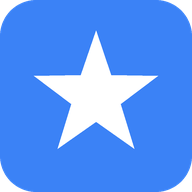
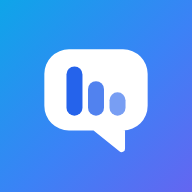
feat(brand): replace the generic star with a real platform mark
The identity was a stock star in a blue square — the same star every rating
site uses — and the Blade logo components still shipped the Laravel starter
kit mark under the name "Laravel Starter Kit".

Build a real mark on the social card's idea: say what the product does using
its own UI. The glyph is a review bubble with the tail on the bottom right
(RTL) holding three score bars that rise with the reading direction — reviews
resolving into a score, which is the whole product in one shape.

Explored five directions at real pixel sizes before landing here. Discarded:
metric bars alone and a nested card both read as text-align/document icons; a
fanned card stack collapsed into a credit card; a partially filled star lost
its fill below 32px; and both ت monogram variants read unmistakably as a
smiley face.

scripts/brand-icons.mjs is now the single source for every icon artifact and
renders them from one geometry definition:
- favicon.svg + favicon.ico (16/32/48, PNG-payload ICO assembled in-script)
  on a rounded tile.
- apple-touch-icon.png, icon-192.png, icon-512.png on a square full-bleed
  tile with the glyph inset to 0.82, so the manifest's "any maskable" purpose
  survives a circular crop.

The inline component carries the same geometry for CSS control, and the
public header now uses it instead of a hand-rolled star. Verified legible at
16px, on dark, under a circular mask, and in the running header.
[…]

diff --git a/resources/views/components/app-logo-icon.blade.php b/resources/views/components/app-logo-icon.blade.php
@@ -1,8 +1,22 @@
-<svg xmlns="http://www.w3.org/2000/svg" viewBox="0 0 40 42" {{ $attributes }}>
-    <path 
-        fill="currentColor" 
-        fill-rule="evenodd" 
-        clip-rule="evenodd"
-        d="M17.2 5.633 8.6.855 0 5.633v26.51l16.2 9 16.2-9v-8.442l7.6-4.223V9.856l-8.6-4.777-8.6 4.777V18.3l-5.6 3.111V5.633ZM38 18.301l-5.6 3.11v-6.157l5.6-3.11V18.3Zm-1.06-7.856-5.54 3.078-5.54-3.079 5.54-3.078 5.54 3.079ZM24.8 18.3v-6.157l5.6 3.111v6.158L24.8 18.3Zm-1 1.732 5.54 3.078-13.14 7.302-5.54-3.078 13.14-7.3v-.002Zm-16.2 7.89 7.6 4.222V38.3L2 30.966V7.92l5.6 3.111v16.892ZM8.6 9.3 3.06 6.222 8.6 3.143l5.54 3.08L8.6 9.3Zm21.8 15.51-13.2 7.334V38.3l13.2-7.334v-6.156ZM9.6 11.034l5.6-3.11v14.6l-5.6 3.11v-14.6Z"
-    />
+{{--
+    The platform mark: a review bubble (RTL, tail on the bottom right) holding
+    three score bars that rise with the reading direction.
+
+    Kept in sync with public/favicon.svg, which scripts/brand-icons.mjs renders
+    from the same geometry. Change the mark there, not here, then rerun the
+    script — tests/Feature/BrandAssetsTest.php asserts the two agree.
+--}}
+<svg xmlns="http://www.w3.org/2000/svg" viewBox="0 0 64 64" role="img" aria-label="تقييم التدريب" {{ $attributes }}>
+    <defs>
+        <linearGradient id="brand-mark-gradient" x1="0" y1="0" x2="1" y2="1">
+            <stop offset="0" stop-color="#0EA5E9"/>
+            <stop offset="0.55" stop-color="#3B82F6"/>
+            <stop offset="1" stop-color="#6366F1"/>
+        </linearGradient>
+    </defs>
+    <rect width="64" height="64" rx="16" fill="url(#brand-mark-gradient)"/>
+    <path transform="translate(64 0) scale(-1 1)" fill="#FFFFFF" d="M21 13h22a10 10 0 0 1 10 10v13a10 10 0 0 1-10 10H33l-10.5 8.5a1.4 1.4 0 0 1-2.3-1.1V46H21a10 10 0 0 1-10-10V23a10 10 0 0 1 10-10Z"/>
+    <rect x="20" y="20" width="6.5" height="20" rx="3.25" fill="#2563EB"/>
+    <rect x="28.75" y="26" width="6.5" height="14" rx="3.25" fill="#2563EB" opacity="0.8"/>
+    <rect x="37.5" y="30.5" width="6.5" height="9.5" rx="3.25" fill="#2563EB" opacity="0.62"/>
 </svg>

diff --git a/tests/Feature/BrandAssetsTest.php b/tests/Feature/BrandAssetsTest.php
@@ -1,0 +1,60 @@
+<?php
+
+/**
+ * The brand mark lives in two places by necessity: public/favicon.svg (and the
+ * rasters beside it) for browsers and app stores, and the Blade component for
+ * inline use. scripts/brand-icons.mjs renders the first set; these tests keep
+ * the second from drifting away from it.
+ */
+function markElements(string $svg): array
+{
+    preg_match_all('/<(?:path|rect x)\b[^>]*>/', $svg, $matches);
+
+    return $matches[0];
+}
+
+it('ships every icon artifact at the size its consumer expects', function (string $file, int $size): void {
+    $path = public_path($file);
+
+    expect($path)->toBeReadableFile();
+
+    [$width, $height] = getimagesize($path);
+
+    expect($width)->toBe($size)->and($height)->toBe($size);
+})->with([
+    ['apple-touch-icon.png', 180],
+    ['icon-192.png', 192],
+    ['icon-512.png', 512],
+]);
+
+it('ships a multi-size favicon', function (): void {
+    $path = public_path('favicon.ico');
+
+    expect($path)->toBeReadableFile();
+
+    $header = unpack('vreserved/vtype/vcount', file_get_contents($path, length: 6));
+
+    expect($header['reserved'])->toBe(0)
+        ->and($header['type'])->toBe(1)
+        ->and($header['count'])->toBe(3);
+});
+
+it('keeps the inline mark identical to the favicon', function (): void {
+    $favicon = file_get_contents(public_path('favicon.svg'));
+    $component = file_get_contents(resource_path('views/components/app-logo-icon.blade.php'));
+
+    $elements = markElements($favicon);
+
+    expect($elements)->toHaveCount(4);
+
+    foreach ($elements as $element) {
+        expect($component)->toContain($element);
+    }
+});
+
+it('renders the mark in the public header', function (): void {
+    $this->withoutVite()
+        ->get(route('companies.index'))
+        ->assertOk()
+        ->assertSee('brand-mark-gradient', false);
+});

diff --git a/resources/views/layouts/public.blade.php b/resources/views/layouts/public.blade.php
@@ -8,9 +8,7 @@
             <div class="max-w-5xl mx-auto px-4 sm:px-6">
                 <div class="flex items-center justify-between h-16">
                     <a href="{{ route('home') }}" wire:navigate class="flex items-center gap-2 text-lg font-bold text-slate-900 transition-opacity hover:opacity-80">
-                        <span class="flex size-8 items-center justify-center rounded-lg bg-blue-500 text-white">
-                            <svg class="size-4" fill="none" viewBox="0 0 24 24" stroke="currentColor" stroke-width="2.5" aria-hidden="true"><path stroke-linecap="round" stroke-linejoin="round" d="M11.049 2.927c.3-.921 1.603-.921 1.902 0l1.519 4.674a1 1 0 00.95.69h4.915c.969 0 1.371 1.24.588 1.81l-3.976 2.888a1 1 0 00-.363 1.118l1.518 4.674c.3.922-.755 1.688-1.538 1.118l-3.976-2.888a1 1 0 00-1.176 0l-3.976 2.888c-.783.57-1.838-.196-1.538-1.118l1.518-4.674a1 1 0 00-.363-1.118l-3.976-2.888c-.784-.57-.38-1.81.588-1.81h4.914a1 1 0 00.951-.69l1.519-4.674z"/></svg>
-                        </span>
+                        <x-app-logo-icon class="size-8 rounded-lg" />
                         تقييم التدريب
                     </a>
                     <div class="flex items-center gap-2 sm:gap-3">

diff --git a/resources/views/components/app-logo.blade.php b/resources/views/components/app-logo.blade.php
@@ -3,15 +3,15 @@
 ])
 
 @if($sidebar)
-    <flux:sidebar.brand name="Laravel Starter Kit" {{ $attributes }}>
-        <x-slot name="logo" class="flex aspect-square size-8 items-center justify-center rounded-md bg-accent-content text-accent-foreground">
-            <x-app-logo-icon class="size-5 fill-current text-white dark:text-black" />
+    <flux:sidebar.brand name="تقييم التدريب" {{ $attributes }}>
+        <x-slot name="logo">
+            <x-app-logo-icon class="size-8 rounded-lg" />
         </x-slot>
     </flux:sidebar.brand>
 @else
-    <flux:brand name="Laravel Starter Kit" {{ $attributes }}>
-        <x-slot name="logo" class="flex aspect-square size-8 items-center justify-center rounded-md bg-accent-content text-accent-foreground">
-            <x-app-logo-icon class="size-5 fill-current text-white dark:text-black" />
+    <flux:brand name="تقييم التدريب" {{ $attributes }}>
+        <x-slot name="logo">
+            <x-app-logo-icon class="size-8 rounded-lg" />
         </x-slot>
     </flux:brand>
 @endif
